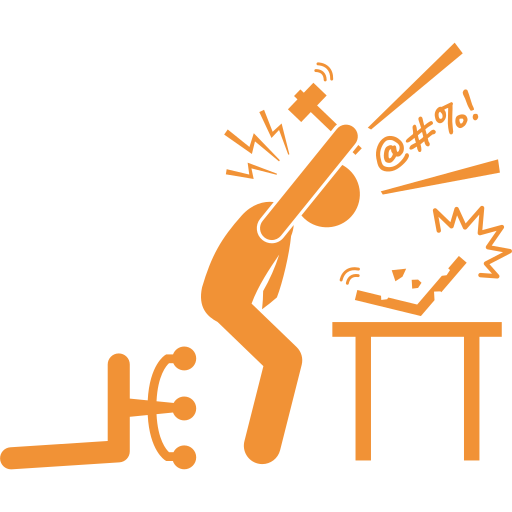
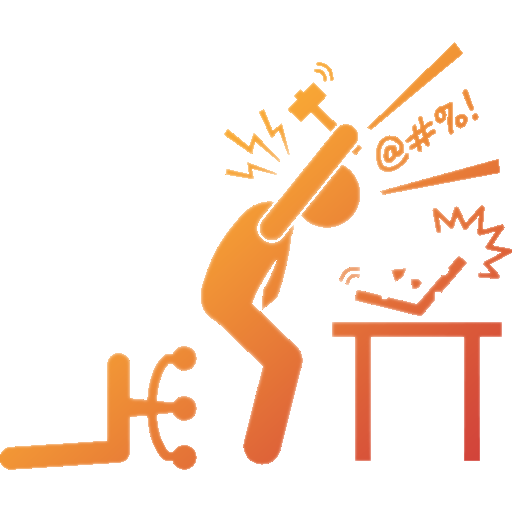
Terminado transicion de tema y actualizado iconos

diff --git a/app.js b/app.js
@@ -4,12 +4,21 @@ const li = 'imes';
 const o = 'ober';
 const u = 'ufat';
 
+const cartel = ['imagenError', 'imagenInicial', 'parrafoResultado', 'tituloResultado']
+const iconos = ["Alura", "warning", "imagenError", "imagenInicial", "icono_tema", "icono_home", "icono_info"];
+const bloques = ["bloque_principal", "bloque_secundario", "bloque_botones", "titulo"]
+const boton_tema = document.getElementById("boton_tema");
+
+
 const temaGuardado = localStorage.getItem('tema') || 'oscuro';
 document.documentElement.setAttribute('tema', temaGuardado);
-let iconos = ["Alura", "warning", "imagenError", "imagenInicial", "icono_tema"];
-let bloques = ["bloque_principal", "bloque_secundario", "bloque_botones"]
+boton_tema.addEventListener("click", cambiarTema);
 actualizarIconos();
 transicionBloques();
+aparecerIconos();
+
+
+
 
 function encriptarTexto(texto) {
 
@@ -17,7 +26,7 @@ function encriptarTexto(texto) {
         rechazar();
         return
     }
-    
+
     if (texto !== "") {
         ocultarCartel();
     }
@@ -53,12 +62,29 @@ function encriptarTexto(texto) {
 }
 
 
+function esconderIconos() {
+    let botones = document.querySelectorAll(".menu__boton");
+    for (const elemento of botones) {
+        elemento.classList.remove("fuera_de_pantalla");
+        elemento.classList.remove("aparecer_por_izquierda");
+        elemento.classList.add("salir_por_izquierda");
+    }
+}
+
+function aparecerIconos() {
+    let botones = document.querySelectorAll(".menu__boton");
+    for (const elemento of botones) {
+        elemento.classList.add("fuera_de_pantalla");
+        elemento.classList.remove("salir_por_izquierda");
+        elemento.classList.add("aparecer_por_izquierda");
+    }
+}
 
 
 function encriptar() {
     let texto = document.getElementById("campoEntrada").value
     document.getElementById("campoSalida").value = encriptarTexto(texto);
-    
+
     return;
 };
 
@@ -73,24 +99,28 @@ function rechazar() {
     titulo.style.display = "block";
     parrafo.innerHTML = "No se permiten <strong>mayusculas</strong> ni <strong>tildes</strong>."
     titulo.textContent = "Algo anduvo mal."
-    
+
 }
 
 
-function ocultarCartel(){
-    mostrarResultado();
-    document.getElementById('imagenError').style.display = "none";
-    document.getElementById('imagenInicial').style.display = "none";
-    document.getElementById('parrafoResultado').style.display = "none";
-    document.getElementById('tituloResultado').style.display = "none";
-
+function ocultarCartel() {
+    
+    for (const elemento of cartel) {
+        document.getElementById(elemento).classList.add("oculto")
+        setTimeout(() => {
+            document.getElementById(elemento).style.display = "none";
+            mostrarResultado();
+        }, 300);
+    }
     return;
 }
 
 
-function mostrarResultado(){
+function mostrarResultado() {
     document.getElementById('copiar').style.visibility = "visible";
     document.getElementById('campoSalida').style.display = "block";
+    document.getElementById('copiar').classList.remove("oculto")
+    document.getElementById('campoSalida').classList.remove("oculto")
 
     return;
 }
@@ -108,36 +138,41 @@ function limpiar() {
 
 
 function cambiarTema() {
-    
+    boton_tema.disabled = true;
     transicionBloques();
+    esconderIconos();
     const temaActual = document.documentElement.getAttribute('tema');
     const temaNuevo = temaActual === 'oscuro' ? 'claro' : 'oscuro';
     setTimeout(() => {
         document.documentElement.setAttribute('tema', temaNuevo);
         actualizarIconos();
         transicionBloques();
-    }, 1100); 
+        aparecerIconos();
+        boton_tema.disabled = false;
+    }, 1100);
     localStorage.setItem('tema', temaNuevo);
     return;
 }
 
 
-function actualizarIconos(){
+function actualizarIconos() {
     if (oscuro()) {
         for (let icono of iconos) {
             oscurecer(document.getElementById(icono));
+            boton_tema.setAttribute("texto-cartel", "Tema claro")
         }
     } else {
         for (let icono of iconos) {
             enclarecer(document.getElementById(icono));
+            boton_tema.setAttribute("texto-cartel", "Tema oscuro")
         }
     }
-    
+
     return 0;
 }
 
 
-function oscuro(){
+function oscuro() {
     return document.documentElement.getAttribute('tema') === "oscuro";
 }
 
@@ -154,7 +189,7 @@ function oscurecer(elemento) {
 }
 
 
-function transicionBloques(){
+function transicionBloques() {
     console.log("entre al transition");
     for (const elemento of bloques) {
         document.getElementById(elemento).classList.toggle("oculto");

diff --git a/index.html b/index.html
@@ -14,14 +14,22 @@
     </header>
     <main>
         <nav class="menu">
-            <img id="Alura" class="menu__Main__Logo" src="/assets/Alura.svg" alt="Logo de Alura">
-            <button onclick="cambiarTema()" class="menu__boton">
-                <img id="icono_tema" class="menu__tema" src="/assets/tema.png" alt="Logo de cambio de tema">
+            <a id="boton_alura" class="menu__boton cartel fuera_de_pantalla" texto-cartel="Alura">
+                <img id="Alura" class="menu__Main__Logo menu__icono" src="/assets/Alura.svg" alt="Logo de Alura">
+            </a>
+            <a id="boton_home" class="menu__boton cartel fuera_de_pantalla" texto-cartel="Home">
+                <img id="icono_home" class="menu__icono" src="/assets/home.png" alt="Logo de cambio de tema">
+            </a>
+            <a id="boton_info" class="menu__boton cartel fuera_de_pantalla" texto-cartel="Sobre mi">
+                <img id="icono_info" class="menu__icono" src="/assets/card.png" alt="Logo de cambio de tema">
+            </a>
+            <button id="boton_tema" class="menu__boton cartel fuera_de_pantalla" texto-cartel="Tema claro">
+                <img id="icono_tema" class="menu__icono" src="/assets/tema.png" alt="Logo de cambio de tema">
             </button>
             
         </nav>
         <section class="Main__AreaDeTrabajo">
-            <h1 class="Main__AreaDeTrabajo_titulo">Encriptador de texto GruCipher</h1>
+            <h1 id="titulo" class="Main__AreaDeTrabajo_titulo oculto">Encriptador de texto GruCipher</h1>
             <div id="bloque_principal" class="Main__AreaDeTrabajo__Seccion oculto">
                 <textarea id="campoEntrada" class="Main__AreaDeTrabajo__Seccion__Campo"
                     placeholder="Ingrese el texto aqui"></textarea>
@@ -29,12 +37,12 @@
                     <p class="Main__AreaDeTrabajo__Seccion__Abajo__advertencia">
                         <img id="warning" class="Main__AreaDeTrabajo__Seccion__Abajo__advertencia_icono" src="/assets/warning.png" alt="Alerta">
                         Solo letras minusculas y sin tildes.</p>
-                        <button onclick="limpiar(); transicionBloques();" type="button" class="Main__AreaDeTrabajo__Seccion__Abajo__Limpiar">Limpiar</button>
+                        <button onclick="limpiar();" type="button" class="Main__AreaDeTrabajo__Seccion__Abajo__Limpiar">Limpiar</button>
                 </div>
             </div>
             <div id="bloque_botones" class="Main__AreaDeTrabajo__Botones oculto">
                 <button type="button" class="Main__AreaDeTrabajo__Botones__principal"
-                    onclick="encriptar()">Encriptar</button>
+                    onclick="encriptar();">Encriptar</button>
                 <button type="button" class="Main__AreaDeTrabajo__Botones__secundario">Desencriptar</button>
             </div>
         </section>
@@ -53,6 +61,7 @@
         <div> Icons made by <a href="https://www.flaticon.com/authors/freepik" title="Freepik"> Freepik </a> from <a href="https://www.flaticon.com/" title="Flaticon">www.flaticon.com'</a></div>
         <div> Icons made by <a href="https://www.flaticon.com/authors/leremy" title="Leremy"> Leremy </a> from <a href="https://www.flaticon.com/" title="Flaticon">www.flaticon.com'</a></div>
         <div> Icons made by <a href="https://www.flaticon.com/authors/good-ware" title="Good Ware"> Good Ware </a> from <a href="https://www.flaticon.com/" title="Flaticon">www.flaticon.com'</a></div>
+        <div> Icons made by <a href="https://www.flaticon.com/authors/pixel-perfect" title="Pixel perfect"> Pixel perfect </a> from <a href="https://www.flaticon.com/" title="Flaticon">www.flaticon.com'</a></div>
     </footer>
     <script src="app.js"></script>
 </body>

diff --git a/styles/style.css b/styles/style.css
@@ -28,8 +28,6 @@
     
     --transicion-botones: 0.3s;
 
-    --alura: "/assets/Alura_claro.svg";
-
     background: var(--color-uno);
 
 }
@@ -57,6 +55,7 @@
     
     --color-luz-Interior1: rgba(207, 59, 59, 0.25);
     --color-luz-Interior2: rgba(255, 184, 52, 0.25);
+
     
 }
 
@@ -98,7 +97,7 @@ main {
     display: flex;
     flex-direction: column;
     align-items: center;
-    gap: 20px;
+    gap: 2.5rem;
 }
 
 
@@ -110,29 +109,76 @@ main {
 }
 
 
+#boton_alura{
+    animation-delay: 0s;
+}
 
-.menu__tema{
+#boton_home{
+    animation-delay: 0.2s;
+}
+
+#boton_info{
+    animation-delay: 0.4s;
+}
+
+#boton_tema{
+    animation-delay: 0.6s;
+}
+
+
+
+
+
+.menu__icono{
     width: 3rem;
     height: 3rem;
     background-color: transparent;
     transition: transform 0.1s, filter 0.5s;
 }
 
-.menu__tema:hover {
+.menu__icono:hover {
     filter: brightness(150%) drop-shadow(40px 0 100px var(--color-Luz1)) drop-shadow(-40px 0 100px var(--color-Luz2));
     transform: scale(1.2);
 }
 
 
-.menu__tema:active {
+.menu__icono:active {
     filter: brightness(150%) drop-shadow(40px 0 100px var(--color-Luz1)) drop-shadow(-40px 0 100px var(--color-Luz2));
     transform: scale(1);
 }
 
 
+.cartel {
+    position: relative;
+    display: inline-block;
+}
+
+.cartel::after {
+    content: attr(texto-cartel);
+    position: absolute;
+    font-family: var(--fuente-Inter);
+    bottom: -35px; 
+    left: 50%;
+    transform: translateX(-50%);
+    background-image: linear-gradient(to bottom right, var(--color-boton2), var(--color-boton1));
+    color: var(--color-blanco);
+    padding: 5px;
+    border-radius: 5px;
+    white-space: nowrap;
+    opacity: 0;
+    transition: opacity 0.3s;
+    z-index: 1000;
+}
+
+.cartel:hover::after {
+    opacity: 1;
+
+}
+
+
 .menu__Main__Logo {
     user-select: none;
-    width: 3rem;
+    width: 2rem;
     height: 3rem;
 }
 
@@ -160,6 +206,7 @@ main {
     background-clip: text;
     -webkit-background-clip: text; 
     -webkit-text-fill-color: transparent;
+    transition: opacity 0.5s;
 
 }
 
@@ -408,12 +455,14 @@ main {
 .Main__AreaDeResultados__imagenInicial{
     user-select: none;
     width: 70%;
+    transition: opacity 0.3s;
 }
 
 .Main__AreaDeResultados__imagenError{
     user-select: none;
     width: 70%;
     display:none;
+    transition: opacity 0.3s;
 }
 
 .Main__AreaDeResultados__Titulo{
@@ -423,6 +472,10 @@ main {
     color: var(--color-recuadro);
     text-align: center;
     margin: 0 4%;
+    background: linear-gradient(to bottom right, var(--color-boton2), var(--color-boton1));
+    background-clip: text;
+    -webkit-background-clip: text; 
+    -webkit-text-fill-color: transparent;
 }
 
 .Main__AreaDeResultados__parrafo{
@@ -570,4 +623,46 @@ footer{
 
 .oculto{
     opacity: 0;
+}
+
+
+.fuera_de_pantalla{
+    transform: translateX(-10vw);
+}
+
+
+@keyframes aparecer_por_izquierda {
+    0% {
+        transform: translateX(-10vw);
+    }
+    80% {
+        transform: translateX(1vw);
+    }
+    100% {
+        transform: translateX(0);
+    }
+}
+
+
+
+@keyframes salir_por_izquierda {
+    0% {
+        transform: translateX(0);
+    }
+    20% {
+        transform: translateX(1vw);
+    }
+    100% {
+        transform: translateX(-10vw);
+    }
+}
+
+
+
+.salir_por_izquierda{
+    animation: salir_por_izquierda 0.5s ease-in-out forwards;
+}
+
+.aparecer_por_izquierda{
+    animation: aparecer_por_izquierda 0.5s ease-in-out forwards;
 }
